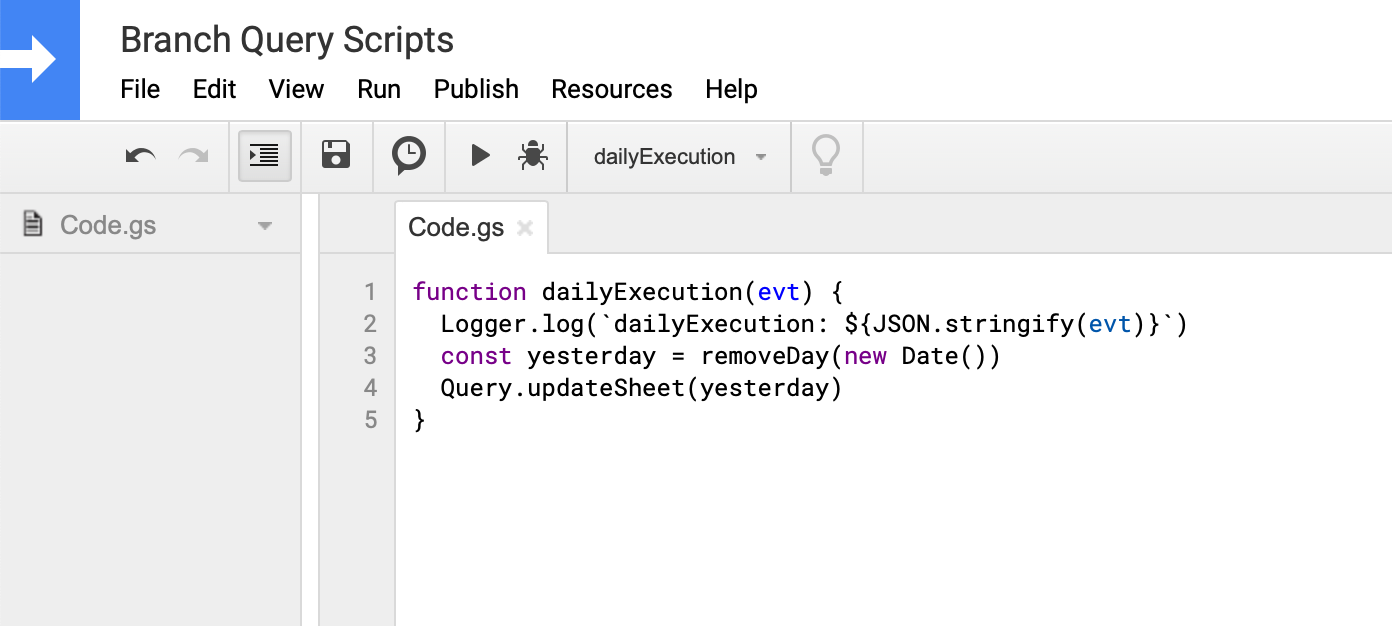
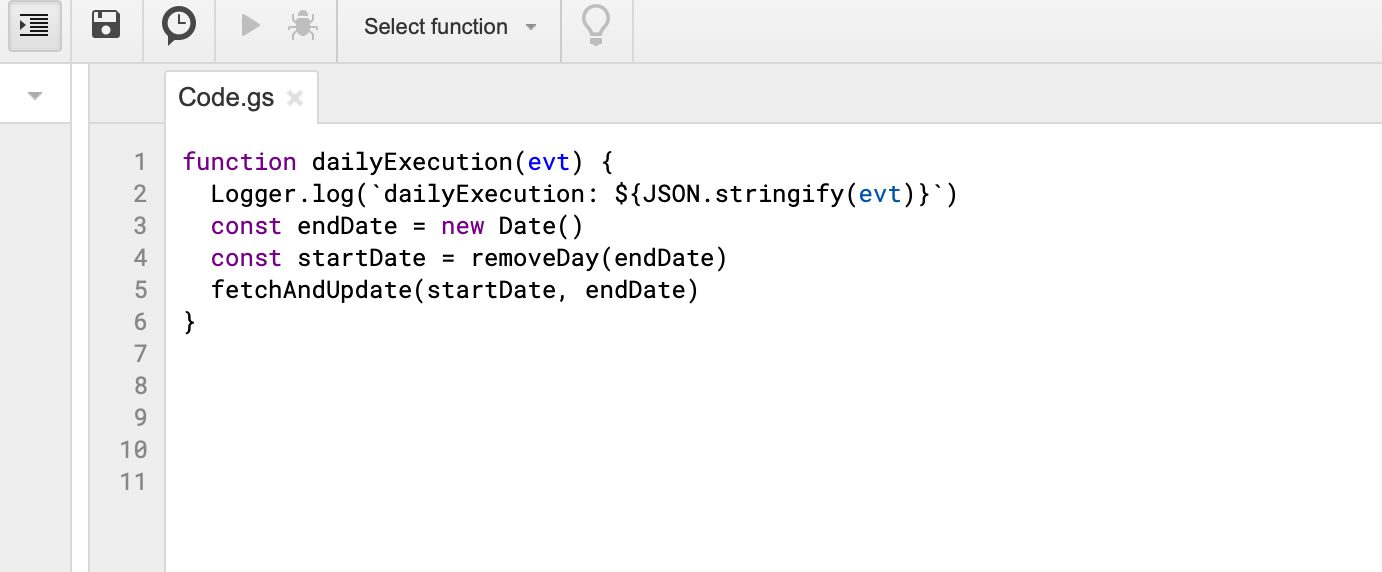
Multiple datasources, splits and updated screenshots

diff --git a/README.md b/README.md
@@ -7,7 +7,7 @@ The query scripts will pull commerce data each day for Ad Networks and populate 
 ## Installation:
 
 1. Add a sheet to your Google Sheet and name it Settings
-2. Add 4 rows to the sheet with the names:
+2. Add rows to the sheet with the names:
 	- Branch Key
 	- Branch Secret
 	- Query Limit
@@ -16,16 +16,18 @@ The query scripts will pull commerce data each day for Ad Networks and populate 
 	- Datasource
 	- Aggregation
 	- Filter
+	- Split Sheets By
 3. For each of those rows, populate with the following:
 	- Branch Key: Retrieve from the Account Settings section of the Branch Dashboard
 	- Branch Secret: Retrieve from the Account Settings section of the Branch Dashboard
 	- Query Limit: Set this by default to 1000 - this is capped at 10 000 rows.
 	- Additional Columns: If you require additional data in the report, please add them in a comma separated list. For more information on the available columns refer to the *dimensions* section of the documentation: https://help.branch.io/developers-hub/docs/query-api#section-data-selection
-	- Ad Networks: Populate with a comma separated list of ad network names. You can retrieve this list from the list from the Branch dashboard under Ads -> Partner Management.
-	- Datasource: A list of datasources can be found here: https://help.branch.io/developers-hub/docs/query-api#section-data-selection
+	- Ad Networks: Populate with a comma separated list of ad network names. You can retrieve this list from the list from the Branch dashboard under Ads -> Partner Management. Leave *blank* if you would like to fetch all ad network data.
+	- Datasource: Comma separated list of datasources. Available datasources can be found here: https://help.branch.io/developers-hub/docs/query-api#section-data-selection
 		Note: the names are case sensitive and need to be input exactly as they appear on the Branch dashboard. e.g. Google AdWords *not* Google adwords
 	- Aggregation: Possible values - `revenue`, `total_count`, `unique_count`, `cost`. If you would like to have multiple aggregations separate them with a comma e.g. `revenue, total_count` For a description of these values, see here: https://help.branch.io/developers-hub/docs/query-api#section-data-selection 
-	- Filter: If you would like to filter the results you can add multiple filters - just be sure that the it is valid JSON. For more information on filters visit: https://help.branch.io/developers-hub/docs/query-api#section-data-selection
+	- Filter: If you would like to filter the results you can add multiple filters - just be sure that the it is valid JSON. An example filter on tags is: `{"last_attributed_touch_data_tilde_tags": ["some_tag"]}` For more information on filters visit: https://help.branch.io/developers-hub/docs/query-api#section-data-selection
+	- Split Sheets By: currently only accepts `partner` as a value. If blank all results will be loaded into a single sheet.
 
 ![Settings](images/Settings.png)
 
@@ -43,8 +45,9 @@ with
 ```
 function dailyExecution(evt) {
   Logger.log(`dailyExecution: ${JSON.stringify(evt)}`)
-  const yesterday = Query.removeDay(new Date())
-  Query.updateSheet(yesterday)
+  const endDate = new Date()
+  const startDate = removeDay(endDate)
+  fetchAndUpdate(startDate, endDate)
 }
 ```
 
@@ -52,7 +55,7 @@ function dailyExecution(evt) {
 
 7. Save the script
 8. Select Resources -> Libraries from the menu
-9. In the Add Library section copy and paste this Script ID: 1j5qtnmGRka-wUt96WXEBeWUq_q8r7wvk2UZ4IWttQZPIdl0isKUuGQnk and press Add
+9. In the Add Library section copy and paste this Script ID: `1j5qtnmGRka-wUt96WXEBeWUq_q8r7wvk2UZ4IWttQZPIdl0isKUuGQnk` and press Add
 
 ![LinkLibrary](images/LinkLibrary.png)
 
